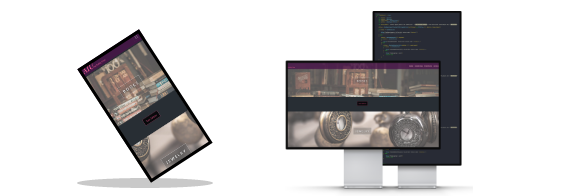
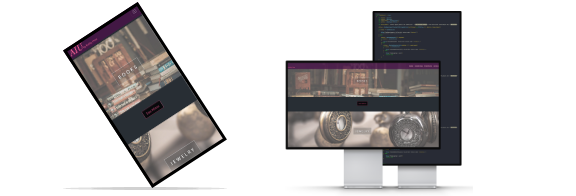
beta10

Changed region(s): [[0.0938, 0.0, 0.4062, 0.9796]]

diff --git a/index.html b/index.html
@@ -10,15 +10,15 @@
 </head>
 
 <body>
-	<!-- Header -->
+	<!-- Nav -->
 	<header id="header">
 		<div class="inner">
 			<a href="index.html" class="logo">Showcase</a>
 			<nav id="nav">
-				<a href="#one">Sponsors</a>
+				<a href="#one">Samples</a>
 				<a href="#two">3D Art</a>
-				<a href="#">Videos</a>
 				<a href="#three">Websites</a>
+				<a href="#">Videos</a>
 				<a href="#three">About Me</a>
 				<a href="#three">Contact Me</a>
 			</nav>
@@ -34,12 +34,13 @@
 			<hr>
 		</div>
 		<p>
-			- BILINGUAL FREELANCE IT SUPPORT SPECIALIST -<br>
-			- HARDWARE AND SOFTWARE TROUBLESHOOTER -<br>
-			- FREELANCE WEB-DESIGNER -<br>
-			- GRAPHIC DESIGNER -<br>
-			- UI/UX DESIGNER -<br>
-			- 3D ARTIST -<br>
+			|| BILINGUAL FREELANCE IT SUPPORT SPECIALIST<br>
+			|| HARDWARE AND SOFTWARE TROUBLESHOOTER<br>
+			|| FREELANCE WEB-DESIGNER<br>
+			|| GRAPHIC DESIGNER<br>
+			|| UI/UX DESIGNER<br>
+			|| 3D ARTIST<br>
+			|| VIDEO EDITOR<br>
 		</p>
 		<ul class="icons">
 			<li><a href="https://www.instagram.com/raimo.rin85/" class="icon fa-instagram" target="_blank"><span
@@ -53,11 +54,11 @@
 		</ul>
 		<a href="#one" class="button special small">Show More</a>
 	</section>
-	<!-- Sponsor -->
+	<!-- Samples -->
 	<section id="one" class="wrapper special">
 		<div class="inner">
 			<header>
-				<h2>Sponsors I made</h2>
+				<h2>Work Samples</h2>
 				<p>Social media ads, 3D arts, vectors and Mockups.</p>
 			</header>
 			<div class="flex flex-3">
@@ -72,12 +73,12 @@
 						using a mask mockup for a customer's business, asking their customers to be safe while getting
 						back to the things they love!</p>
 					<footer>
-						<a href="#" class="button special">Business Instagram page</a>
+						<a href="#" class="button special">Business Facebook page</a>
 					</footer>
 				</article>
 				<article>
 					<header>
-						<h3>Magna tempus sed amet<br /> aliquam veroeros</h3>
+						<h3>Old Resumee Website<br /> With Bootstrap 4.</h3>
 					</header>
 					<div class="image fit">
 						<img src="images/resumeold1.png" alt="Poster" />
@@ -85,12 +86,12 @@
 					<p>Lorem ipsum, dolor sit amet consectetur adipisicing elit. Exercitationem fugit reprehenderit
 						dolorum esse praesentium eaque a, eligendi expedita reiciendis? </p>
 					<footer>
-						<a href="#" class="button special">More</a>
+						<a href="#" class="button special">Old Website</a>
 					</footer>
 				</article>
 				<article>
 					<header>
-						<h3>Magna tempus sed amet<br /> aliquam veroeros</h3>
+						<h3>Massimiliano Rinaldi's eCommerce.<br /> Coffee Specialty.</h3>
 					</header>
 					<div class="image fit">
 						<img src="images/freelance.png" alt="Freelance" />
@@ -98,12 +99,12 @@
 					<p>Lorem ipsum, dolor sit amet consectetur adipisicing elit. Exercitationem fugit reprehenderit
 						dolorum esse praesentium eaque a, eligendi expedita reiciendis?</p>
 					<footer>
-						<a href="#" class="button special">More</a>
+						<a class="button icon fa-heart special">Coming soon</a>
 					</footer>
 				</article>
 				<article>
 					<header>
-						<h3>Magna tempus sed amet<br /> aliquam veroeros</h3>
+						<h3>Zagreusbar Coffee and Wine.<br /> Instagram Stories and ads.</h3>
 					</header>
 					<div class="image fit">
 						<img src="images/atm.png" alt="Atmosphere" />
@@ -116,7 +117,7 @@
 				</article>
 				<article>
 					<header>
-						<h3>Magna tempus sed amet<br /> aliquam veroeros</h3>
+						<h3>Maria Manzo Events.<br /> Valentine's Day Facebook post.</h3>
 					</header>
 					<div class="image fit">
 						<img src="images/marman.png" alt="Maria manzo" />
@@ -129,7 +130,7 @@
 				</article>
 				<article>
 					<header>
-						<h3>Magna tempus sed amet<br /> aliquam veroeros</h3>
+						<h3>Zagreusbar Coffee and Wine.<br /> Website Facebook post.</h3>
 					</header>
 					<div class="image fit">
 						<img src="images/wood.png" alt="Wooden Table" />
@@ -137,7 +138,7 @@
 					<p>Lorem ipsum, dolor sit amet consectetur adipisicing elit. Exercitationem fugit reprehenderit
 						dolorum esse praesentium eaque a, eligendi expedita reiciendis?</p>
 					<footer>
-						<a href="#" class="button special">More</a>
+						<a href="#" class="button special">Business Website</a>
 					</footer>
 				</article>
 			</div>
@@ -156,7 +157,7 @@
 					<div class="item active">
 						<img src="images/3d/1a.png" />
 						<div class="caption">
-							Model
+							Breakfast
 						</div>
 					</div>
 					<div class="item">
@@ -204,7 +205,7 @@
 					<div class="item">
 						<img src="images/3d/8.png" />
 						<div class="caption">
-							Breakfast
+							Model
 						</div>
 					</div>
 					<div class="item">
@@ -277,10 +278,7 @@
 					<header>
 						<h3>Zagreus Menu</h3>
 					</header>
-					<p>Praesent dapibus, neque id cursus faucibus, tortor neque egestas augue, eu vulputate
-						magna eros
-						eu erat. Aliquam erat volutpat. Nam dui mi, tincidunt quis, accumsan porttitor lorem
-						ipsum.</p>
+					<p>Digital menu paired with a QRCode for a Wine Bar in Italy.</p>
 					<footer>
 						<a href="http://www.zagreusbar.it" target="_blank" class="button special">Website</a>
 					</footer>
@@ -294,30 +292,11 @@
 						<img src="images/web2.png" alt="Pic 02" />
 					</div>
 					<header>
-						<h3>Artistic Ideas Ublimited</h3>
+						<h3>Artistic Ideas Unlimited</h3>
 					</header>
-					<p>Sed adipiscing ornare risus. Morbi est est, blandit sit amet, sagittis vel, euismod
-						vel, velit.
-						Pellentesque egestas sem. Suspendisse commodo ullamcorper magna non comodo sodales
-						tempus.</p>
+					<p>Kathy Orza's Showcase. Artist and art teacher in New York.</p>
 					<footer>
-						<a href="#" class="button special">Website</a>
-					</footer>
-				</article>
-
-				<article>
-					<div class="image fit">
-						<img src="images/pic02.jpg" alt="Pic 02" />
-					</div>
-					<header>
-						<h3>Fusce pellentesque tempus</h3>
-					</header>
-					<p>Sed adipiscing ornare risus. Morbi est est, blandit sit amet, sagittis vel, euismod
-						vel, velit.
-						Pellentesque egestas sem. Suspendisse commodo ullamcorper magna non comodo sodales
-						tempus.</p>
-					<footer>
-						<a href="#" class="button special">Website</a>
+						<a href="http://artisticideasunlimited.com/" target="_blank" class="button special">Website</a>
 					</footer>
 				</article>
 
@@ -325,17 +304,17 @@
 
 				<article>
 					<div class="image fit">
-						<img src="images/pic02.jpg" alt="Pic 02" />
+						<img src="images/web3.png" alt="Pic 02" />
 					</div>
 					<header>
-						<h3>Fusce pellentesque tempus</h3>
+						<h3>Strianese SRL</h3>
 					</header>
 					<p>Sed adipiscing ornare risus. Morbi est est, blandit sit amet, sagittis vel, euismod
 						vel, velit.
 						Pellentesque egestas sem. Suspendisse commodo ullamcorper magna non comodo sodales
 						tempus.</p>
 					<footer>
-						<a href="#" class="button special">Website</a>
+						<a href="http://www.strianesesrl.it/" target="_blank" class="button special">Website</a>
 					</footer>
 				</article>
 
@@ -343,37 +322,21 @@
 
 				<article>
 					<div class="image fit">
-						<img src="images/pic02.jpg" alt="Pic 02" />
+						<img src="images/web4.png" alt="Pic 02" />
 					</div>
 					<header>
-						<h3>Fusce pellentesque tempus</h3>
+						<h3>Old Resumee</h3>
 					</header>
 					<p>Sed adipiscing ornare risus. Morbi est est, blandit sit amet, sagittis vel, euismod
 						vel, velit.
 						Pellentesque egestas sem. Suspendisse commodo ullamcorper magna non comodo sodales
 						tempus.</p>
 					<footer>
-						<a href="#" class="button special">Website</a>
+						<a href="https://raimondorinaldi85.github.io/resume/" target="_blank"
+							class="button special">Website</a>
 					</footer>
 				</article>
 
-
-
-				<article>
-					<div class="image fit">
-						<img src="images/pic02.jpg" alt="Pic 02" />
-					</div>
-					<header>
-						<h3>Fusce pellentesque tempus</h3>
-					</header>
-					<p>Sed adipiscing ornare risus. Morbi est est, blandit sit amet, sagittis vel, euismod
-						vel, velit.
-						Pellentesque egestas sem. Suspendisse commodo ullamcorper magna non comodo sodales
-						tempus.</p>
-					<footer>
-						<a href="#" class="button special">Website</a>
-					</footer>
-				</article>
 			</div>
 		</div>
 	</section>

diff --git a/assets/css/main.css b/assets/css/main.css
@@ -3210,10 +3210,10 @@
 	}
 	
 	.slider .left-slide{
-		left: 3px;
+		left: 0px;
 	}
 	.slider .right-slide{
-		right: 3px;
+		right: 0px;
 	}
 	.slider .slider-items .item img{
 		max-width: 100%;
